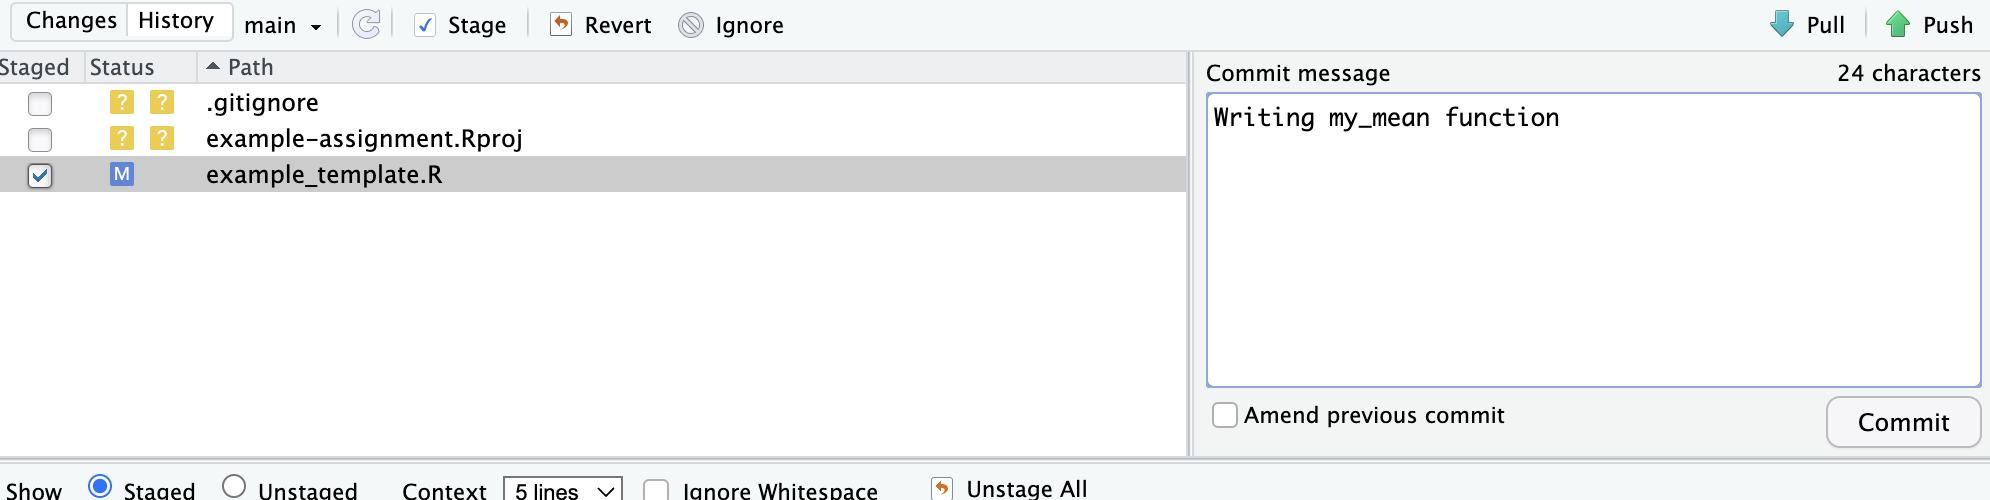
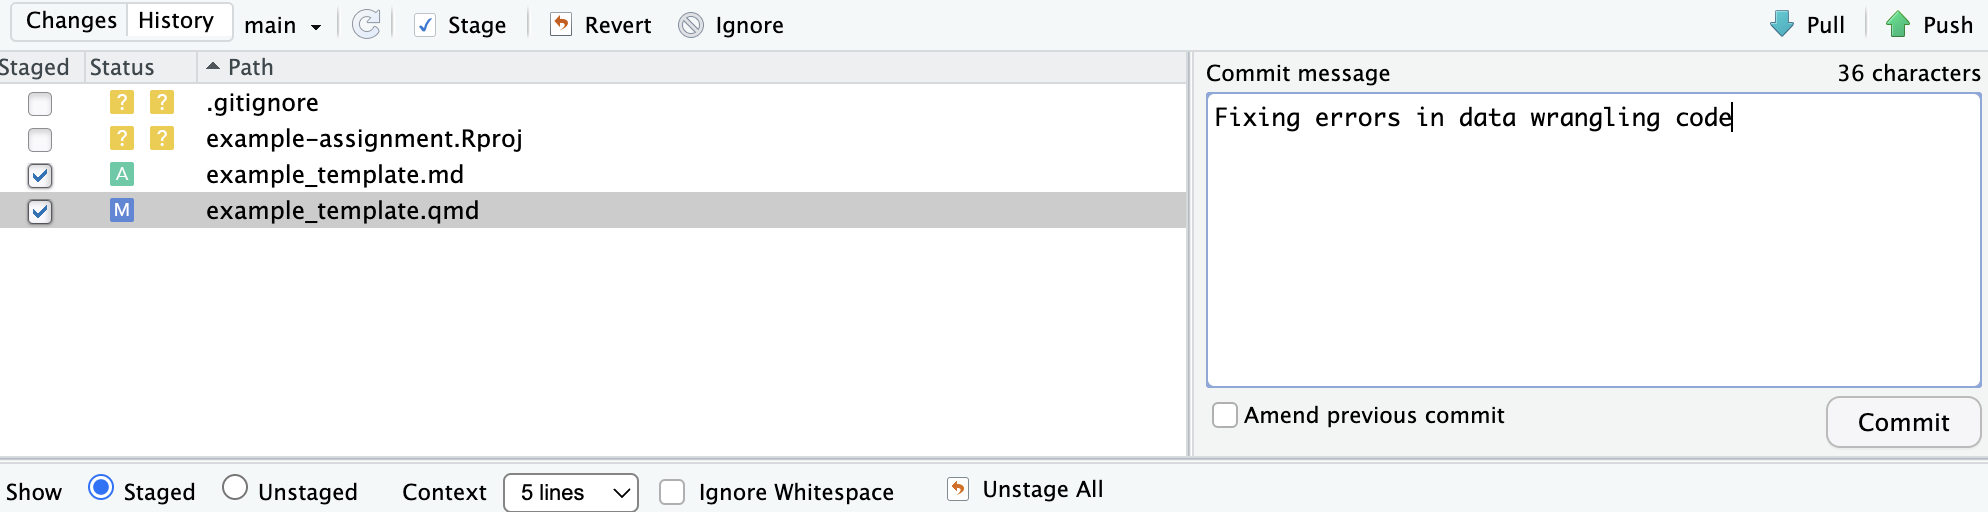
updating GitHub instructions

Changed region(s): [[0.0, 0.03, 1.0, 1.0], [0.2183, 0.03, 0.4054, 0.09], [0.0, 0.24, 0.0312, 0.27]]

diff --git a/resources/github_instructions.md b/resources/github_instructions.md
@@ -32,15 +32,15 @@ Full details on these steps is provided below.
 
 ## Initial setup: File system + R + RStudio + Git + GitHub
 
-Before completing your first assignment, you will need to get all of your software set up and talking to each other. This means that you will need to install R and RStudio (if they are not already installed, or update them if needed), install Git, set up a GitHub account, and connect Git, GitHub, and RStudio. For the Git and GitHub setup, and the connection with RStudio, see the book [Happy Git and GitHub for the useR](https://happygitwithr.com/). You should also prepare a folder on your local computer that you will use for your classwork in 379 this semester.
+Before completing your first assignment, you will need to get all of your software set up and talking to each other. This means that you will need to install R and RStudio (if they are not already installed, or update them if needed), install Git, set up a GitHub account, and connect Git, GitHub, and RStudio. For the Git and GitHub setup, and the connection with RStudio, see the book [Happy Git and GitHub for the useR](https://happygitwithr.com/). You should also prepare a folder on your local computer that you will use for your classwork in 279 this semester.
 
 ### Step 1: Local file organization
 
-Create a folder on your local computer to store your work in this class. I would recommend calling it something like `sta379-s25-work`, and saving it somewhere permanent and accessible (NOT your Downloads folder, e.g.). For example, on my computer I created the folder `~/Documents/sta379-s25-work` (storing it under Documents). When you later accept assignments through GitHub Classroom, you should store them in this folder, with a subdirectory for each assignment.
+Create a folder on your local computer to store your work in this class. I would recommend calling it something like `sta279-f25-work`, and saving it somewhere permanent and accessible (NOT your Downloads folder, e.g.). For example, on my computer I created the folder `~/Documents/sta279-f25-work` (storing it under Documents). When you later accept assignments through GitHub Classroom, you should store them in this folder, with a subdirectory for each assignment.
 
 ### Step 2: Install or update R and RStudio
 
-Install or update R and RStudio; see the [R and RStudio installation instructions](https://sta379-s25.github.io/resources/r_installation/) on the course website, and [Chapter 5](https://happygitwithr.com/install-r-rstudio) of Happy Git with R. If you have not updated your versions of R and RStudio in a while, make sure to do so at the beginning of this course!
+Install or update R and RStudio; see the [R and RStudio installation instructions](https://sta279-f25.github.io/resources/r_installation/) on the course website, and [Chapter 5](https://happygitwithr.com/install-r-rstudio) of Happy Git with R. If you have not updated your versions of R and RStudio in a while, make sure to do so at the beginning of this course!
 
 ### Step 3: Set up a GitHub account and send me details
 
@@ -66,97 +66,93 @@ Once these initial steps are complete, proceed to the next section below, which 
 
 ## Your first assignment through GitHub
 
-This section describes the steps for accepting and submitting your first assignment on GitHub Classroom. The first time you do this, you will also join the GitHub Classroom for this course. To give you practice with these steps, I have created an **example assignment** which you can submit, and which I will walk you through in detail in this section, but which has no stakes and is not graded. For future assignments (homeworks, challenges, projects), your workflow will be very similar, with the difference that you will not need to re-join the classroom, and the specific assignment and repository names will change.
+This section describes the steps for accepting and submitting your first assignment on GitHub Classroom. The first time you do this, you will also join the GitHub Classroom for this course. To give you practice with these steps, I have created an **example assignment** which you can submit, and which I will walk you through in detail in this section. Completing this assignment is part of the course participation grade. For future assignments (homeworks, challenges, projects), your workflow will be very similar, with the difference that you will not need to re-join the classroom, and the specific assignment and repository names will change.
 
 ### Step 1: Open the assignment link
 
-Go to Canvas. Under Assignments, click on *Example assignment (ungraded)*. Click on the GitHub Classroom link provided in the assignment description.
+Go to Canvas. Under Assignments, click on *Example Assignment*. Click on the GitHub Classroom link provided in the assignment description.
 
 ### Step 2: Log in to GitHub
 
 If you are not already logged in, GitHub will prompt you to log in to your account:
 
-<img src="https://sta379-s25.github.io/resources/github_instruction_pictures/assignment_link_login.png" width="30%"/>
+<img src="https://sta279-f25.github.io/resources/github_instruction_pictures/assignment_link_login.png" width="30%"/>
 
 ### Step 3: Join the Classroom (only needs to be done once!)
 
-The first time you click on an assignment link, GitHub will ask you to join the GitHub Classroom for the course (`sta379-s25-compstats-classroom`). Click on your email address from the list of identifiers. **Important:** Once you click on an identifier, GitHub will link your account to that email address. Do not click on anyone else's email, only your own!
-
-<img src="https://sta379-s25.github.io/resources/github_instruction_pictures/github_classroom_join_classroom.png" width="40%"/>
+The first time you click on an assignment link, GitHub will ask you to join the GitHub Classroom for the course (`sta279-f25-statcomp-classroom`). Click on your email address from the list of identifiers. **Important:** Once you click on an identifier, GitHub will link your account to that email address. Do not click on anyone else's email, only your own!
 
 ### Step 4: Accept the assignment
 
 You will now be prompted to accept the assignment (in this case, `example-assignment`). This will give you access to a new repository on GitHub called `example-assignment-USERNAME` (e.g., `example-assignment-ciaran-evans`). Click the green "Accept this assignment" button.
 
-<img src="https://sta379-s25.github.io/resources/github_instruction_pictures/assignment_accept_assignment.png" width="40%"/>
+<img src="https://sta279-f25.github.io/resources/github_instruction_pictures/assignment_accept_assignment.png" width="40%"/>
 
-Once you have accepted the assignment, you will be taken to the assignment repository on GitHub (e.g., `example-assignment-ciaran-evans`). In the example assignment, there are two files already in the repository: `README.md` provides some information about the assignment (short because full assignment instructions are on the course website), and `example_template.R` provides an R script with starter code.
+Once you have accepted the assignment, you will be taken to the assignment repository on GitHub (e.g., `example-assignment-ciaran-evans`). In the example assignment, there are two files already in the repository: `README.md` provides some information about the assignment (short because full assignment instructions are on the course website), and `example_template.qmd` provides a Quarto file with starter code.
 
-<img src="https://sta379-s25.github.io/resources/github_instruction_pictures/assignment_landing_page.png" width="70%"/>
+<img src="https://sta279-f25.github.io/resources/github_instruction_pictures/assignment_landing_page.png" width="70%"/>
 
-If you click on the `example_template.R` file, for example, you will see an incomplete R function for calculating the mean, called `my_mean`. In most assignments, you will have one or more .R files, containing starter code and unit tests. Assignments involving C++ will also have one or more `.cpp` starter files.
+If you click on the `example_template.qmd` file, for example, you will see a chunk of R code with some errors that need fixing.
 
 ### Step 5: Clone the repository to your local computer
 
 Click the green "Code" button, and select HTTPS. You will see a web URL that you can copy to the clipboard:
 
-<img src="https://sta379-s25.github.io/resources/github_instruction_pictures/assignment_get_https.png" width="50%"/>
+<img src="https://sta279-f25.github.io/resources/github_instruction_pictures/assignment_get_https.png" width="50%"/>
 
 **(Important: if you have used the SSH key instead of Personal Access Token setup, e.g. because you are connecting from an RStudio server, then you should instead select "SSH" and copy the corresponding SSH URL)**
 
 Click the icon next to this URL to copy it to the clipboard
 
-<img src="https://sta379-s25.github.io/resources/github_instruction_pictures/assignment_copy_url_clipboard.png" width="60%"/>
+<img src="https://sta279-f25.github.io/resources/github_instruction_pictures/assignment_copy_url_clipboard.png" width="60%"/>
 
 
 Now open RStudio, and click *File* -> *New Project*. This will open the new project wizard. Select *Version Control*
 
-<img src="https://sta379-s25.github.io/resources/github_instruction_pictures/new_project_wizard_vc.png" width="40%"/>
+<img src="https://sta279-f25.github.io/resources/github_instruction_pictures/new_project_wizard_vc.png" width="40%"/>
 
 Then select *Git*
 
-<img src="https://sta379-s25.github.io/resources/github_instruction_pictures/new_project_wizard_git.png" width="40%"/>
+<img src="https://sta279-f25.github.io/resources/github_instruction_pictures/new_project_wizard_git.png" width="40%"/>
 
 The project wizard will then ask for Git repository info. 
 
 * Paste the URL you copied from GitHub into the "Repository URL" field. 
 * Under "Project directory name:", enter the assignment name (e.g., `example-assignment`). 
-* Under "Create project as subdirectory of:", browse and select the folder on your local computer that you created for your work in this class (e.g., `Documents/sta379-s25-work`). 
+* Under "Create project as subdirectory of:", browse and select the folder on your local computer that you created for your work in this class (e.g., `Documents/sta279-f25-work`). 
 * Select "Open in new session"
 * Then click "Create Project".
 
-<img src="https://sta379-s25.github.io/resources/github_instruction_pictures/new_project_wizard_directory_info.png" width="40%"/>
+<img src="https://sta279-f25.github.io/resources/github_instruction_pictures/new_project_wizard_directory_info.png" width="40%"/>
 
 This will clone the repository from GitHub to your local computer, and will create a new R project in that repository. This project will then be opened as a new RStudio session on your computer. In the new RStudio session, click the Files viewer (next to Plots, in one of the four panes). You should see the files for the example assignment repository:
 
-<img src="https://sta379-s25.github.io/resources/github_instruction_pictures/new_project_file_listing.png" width="50%"/>
+<img src="https://sta279-f25.github.io/resources/github_instruction_pictures/new_project_file_listing.png" width="50%"/>
 
 It is possible that the first time you try to clone/pull/push from RStudio, you will be asked to enter your GitHub username (e.g., `ciaran-evans`) and your password (that is, your Personal Access Token, not the password you use to sign in to GitHub on the browser):
 
-<img src="https://sta379-s25.github.io/resources/github_instruction_pictures/enter_git_token.png" width="50%"/>
+<img src="https://sta279-f25.github.io/resources/github_instruction_pictures/enter_git_token.png" width="50%"/>
 
 
 ### Step 6: Pull
 
 In one of the panes on RStudio, you should see a *Git* tab, which has the Git tools (pull, staging, commit, and push) that we will use to save work and interact with GitHub:
 
-<img src="https://sta379-s25.github.io/resources/github_instruction_pictures/new_assignment_pull_first.png" width="60%"/>
+<img src="https://sta279-f25.github.io/resources/github_instruction_pictures/new_assignment_pull_first.png" width="60%"/>
 
 Before doing work in the repository, pull from the remote GitHub repository (click the "Pull" arrow, pointing down). Try to make this a habit whenever you start work on an assignment, or go back to an assignment you have worked on previously. If you are the only one making changes to a repository, and you are only using one computer, then it won't really matter, but it is still a good habit for the future. However, if you are working on the same code across multiple computers, or collaborating with other people, then pulling first is very important!
 
 Because nothing has changed on the remote repository, you will get a message saying everything is up to date:
 
-<img src="https://sta379-s25.github.io/resources/github_instruction_pictures/new_assignment_pull_uptodate.png" width="60%"/>
+<img src="https://sta279-f25.github.io/resources/github_instruction_pictures/new_assignment_pull_uptodate.png" width="60%"/>
 
 ### Step 7: Work on the assignment
 
-In this example assignment, you are asked to write a function in R to calculate the mean of a vector, *without* using the existing `mean` function. Open the `example_template.R` file from the assignment repository. You will see the stub of the `my_mean` function, asking you to fill it in.
+In this example assignment, you are asked to fix errors in a chunk of R code. Open the `example_template.qmd` file from the assignment repository. You will see the chunk that you need to fix. 
 
-Suppose that you write the following (incorrect!) code, and save the R script:
+At the very top of the Quarto file, enter your name in the `author` field. Also, make sure that the `format` field is `gfm` (this will allow the rendered document to appear nicely on GitHub).
 
-<img src="https://sta379-s25.github.io/resources/github_instruction_pictures/example_assignment_initial_incorrect_code.png" width="60%"/>
-
-You then want to go ahead and submit your completed assignment.
+Now go ahead and fix the errors in the R chunk. When you are done, **Render** the Quarto file; this should produce a `.md` file in your repository. 
 
 ### Step 8: Commit your changes
 
@@ -164,21 +160,21 @@ Once you have made changes in the repository (e.g., made progress writing a func
 
 For an extended homework, challenge, or project, you should commit multiple times. In a homework assignment, plan to commit after you finish each coding question. In a project, plan to commit after you write a cohesive section of the code (e.g., some important helper functions).
 
-To make a commit, go to the Git panel in RStudio, where you will see any files which have changed since the last commit. You can ignore non-code files, like the .gitignore and the .Rproj files. Select the box next to the code files (.R, .cpp, etc) to *stage* them for a commit (if you have used Git previously, this is just doing a `git add`):
+To make a commit, go to the Git panel in RStudio, where you will see any files which have changed since the last commit. You can ignore files like the .gitignore and the .Rproj files. Select the box next to the files for your work (.R, .qmd, .md, etc) to *stage* them for a commit (if you have used Git previously, this is just doing a `git add`). In the example assignment, you should stage the `example_template.qmd` and `example_template.md` files.
 
-<img src="https://sta379-s25.github.io/resources/github_instruction_pictures/example_assignment_staging.png" width="60%"/>
+<img src="https://sta279-f25.github.io/resources/github_instruction_pictures/example_assignment_staging.png" width="60%"/>
 
 Once you have selected all the files you wish to commit, click the "Commit" box. This will open a new window for the commit, in which you can see the selected files you staged, and the changes you have made to those files (insertions are in green, deletions are in red):
 
-<img src="https://sta379-s25.github.io/resources/github_instruction_pictures/example_assignment_initial_commit_box1.png" width="60%"/>
+<img src="https://sta279-f25.github.io/resources/github_instruction_pictures/example_assignment_initial_commit_box1.png" width="60%"/>
 
 In the top right, you can also see a box to add a commit message. Enter a short, meaningful message here to describe the commit:
 
-<img src="https://sta379-s25.github.io/resources/github_instruction_pictures/example_assignment_initial_commit_message.png" width="60%"/>
+<img src="https://sta279-f25.github.io/resources/github_instruction_pictures/example_assignment_initial_commit_message.png" width="60%"/>
 
 Then click the "Commit" button below the message box. You should see a pop-up "Git Commit" box once the commit is complete:
 
-<img src="https://sta379-s25.github.io/resources/github_instruction_pictures/example_assignment_initial_commit_completed.png" width="60%"/>
+<img src="https://sta279-f25.github.io/resources/github_instruction_pictures/example_assignment_initial_commit_completed.png" width="60%"/>
 
 You can close the commit boxes now.
 
@@ -186,21 +182,21 @@ You can close the commit boxes now.
 
 Now you have committed changes to your local Git repository, which means that there is a difference between the version of the code on your local machine, and the version on the remote repository. Indeed, in the Git tab on RStudio, you can see that there is a message saying that your local branch is *ahead* of the remote branch (`origin/main`) by 1 commit:
 
-<img src="https://sta379-s25.github.io/resources/github_instruction_pictures/example_assignment_branch_ahead_after_commit.png" width="60%"/>
+<img src="https://sta279-f25.github.io/resources/github_instruction_pictures/example_assignment_branch_ahead_after_commit.png" width="60%"/>
 
 We want to share the changes in our code with the remote repository. First, if the remote repository on GitHub is up-to-date, you could access your current code from other computers, and collaborators can have the latest edits. Second, if something happens to your local computer, you still have a back-up of all your code on the remote repository. And finally, for the purposes of this class, pushing to GitHub is how you will share your code with me for grading and feedback!
 
 A *push* is how we send code from a local repository to GitHub (whereas a *pull*, recall, is how we go the other way to get code from GitHub to our local computer). Once you have committed your latest changes, click the "Push" button (green arrow, pointing up) in the Git panel in RStudio. You should get a message saying that your changes have been pushed to GitHub:
 
-<img src="https://sta379-s25.github.io/resources/github_instruction_pictures/example_assignment_push_completed.png" width="60%"/>
+<img src="https://sta279-f25.github.io/resources/github_instruction_pictures/example_assignment_push_completed.png" width="60%"/>
 
 You can close the pop-up message. Once you have pushed to GitHub, go to your web browser and navigate to the repository on GitHub. In the file list, you can see the corresponding commit message next to the file(s) that you have changed:
 
-<img src="https://sta379-s25.github.io/resources/github_instruction_pictures/example_assignment_updated_file1.png" width="60%"/>
+<img src="https://sta279-f25.github.io/resources/github_instruction_pictures/example_assignment_updated_file1.png" width="60%"/>
 
 If you click on the file, you can see that the updated version is now on GitHub:
 
-<img src="https://sta379-s25.github.io/resources/github_instruction_pictures/example_assignment_updated_file2.png" width="60%"/>
+<img src="https://sta279-f25.github.io/resources/github_instruction_pictures/example_assignment_updated_file2.png" width="60%"/>
 
 As with commits, you should push to GitHub multiple times throughout the course of working on your assignment. As a rule, push each time you make a commit.
 
@@ -211,58 +207,32 @@ Once you have completed the assignment and pushed the final version of your work
 
 In the GitHub repository, navigate to the "Pull requests" tab. There should be one open pull request, called "Feedback":
 
-<img src="https://sta379-s25.github.io/resources/github_instruction_pictures/example_assignment_pull_request_navigation.png" width="60%"/>
+<img src="https://sta279-f25.github.io/resources/github_instruction_pictures/example_assignment_pull_request_navigation.png" width="60%"/>
 
 Click on this pull request. The pull request has tabs for Conversation (for us to make comments on the code), Commits, Checks (ignore this for now), and Files changed. Under the Conversation tab, you can see some information automatically populated by GitHub Classroom, and a list of the commits to the repository:
 
-<img src="https://sta379-s25.github.io/resources/github_instruction_pictures/example_assignment_feedback_pr.png" width="60%"/>
+<img src="https://sta279-f25.github.io/resources/github_instruction_pictures/example_assignment_feedback_pr.png" width="60%"/>
 
 **Very Important: DO NOT close or merge the pull request!** You should only ever request reviews and make comments.
 
 To request feedback from me, click on the gears symbol next to "Reviewers" on the right:
 
-<img src="https://sta379-s25.github.io/resources/github_instruction_pictures/example_assignment_pr_request_review_1.png" width="40%"/>
+<img src="https://sta279-f25.github.io/resources/github_instruction_pictures/example_assignment_pr_request_review_1.png" width="40%"/>
 
 Click on my name (`ciaran-evans`) from the list that comes up:
 
-<img src="https://sta379-s25.github.io/resources/github_instruction_pictures/example_assignment_pr_request_reviewer_2.png" width="40%"/>
+<img src="https://sta279-f25.github.io/resources/github_instruction_pictures/example_assignment_pr_request_reviewer_2.png" width="40%"/>
 
 You should see that I have been assigned to review the code, and you are waiting for my comments:
 
-<img src="https://sta379-s25.github.io/resources/github_instruction_pictures/example_assignment_request_reviewer_3.png" width="40%"/>
+<img src="https://sta279-f25.github.io/resources/github_instruction_pictures/example_assignment_request_reviewer_3.png" width="40%"/>
 
 
 ### Step 11: I provide feedback
 
-Now it is my turn to look at your code, and provide feedback. For this example assignment, the initial code submitted was sadly incorrect, so my comments might look something like this:
+Now it is my turn to look at your code, and provide feedback. I will leave comments on your code, and summarize your overall performance on the assignment:
 
-<img src="https://sta379-s25.github.io/resources/github_instruction_pictures/example_assignment_review_requested.png" width="60%"/>
+<img src="https://sta279-f25.github.io/resources/github_instruction_pictures/example_assignment_review_requested.png" width="60%"/>
 
-As you can see, I have left comments describing what needs to be done differently, and I have requested changes to the code.
 
-**If you have Not yet mastered the assignment, I will request changes. If you have Mastered the assignment (or at least the coding portion), I will instead accept your code.**
-
-### Step 12: Revise code (if needed)
-
-If you have not yet mastered the assignment and changes are requested, you will now make changes to the code to address feedback:
-
-<img src="https://sta379-s25.github.io/resources/github_instruction_pictures/example_assignment_correct_r_code.png" width="50%"/>
-
-Following the same workflow as before, stage and commit the changes:
-
-<img src="https://sta379-s25.github.io/resources/github_instruction_pictures/example_assignment_corrected_code_commit.png" width="60%"/>
-
-Then push to GitHub; on GitHub, you should see that the file(s) are updated with your new code:
-
-<img src="https://sta379-s25.github.io/resources/github_instruction_pictures/example_assignment_corrected_code_github.png" width="50%"/>
-
-### Step 13: Re-request review (if needed)
-
-When you are finished revising your code to address all feedback from the initial submission, and you have committed and pushed the revised code to GitHub, it is time to ask me to review your revised code. In the feedback pull request, go to the right, where you should see my name under "Reviewers":
-
-<img src="https://sta379-s25.github.io/resources/github_instruction_pictures/feedback_pr_rerequest_review.png" width="40%"/>
-
-Click the spinny arrows next to my name to re-request a review from me. If you have mastered the assignment after submitting the revision, I will approve the changes after reviewing the code, and I will leave you a comment letting you know that you have mastered the assignment (or at least the coding portion):
-
-<img src="https://sta379-s25.github.io/resources/github_instruction_pictures/feedback_pr_changes_approved.png" width="60%"/>
 
